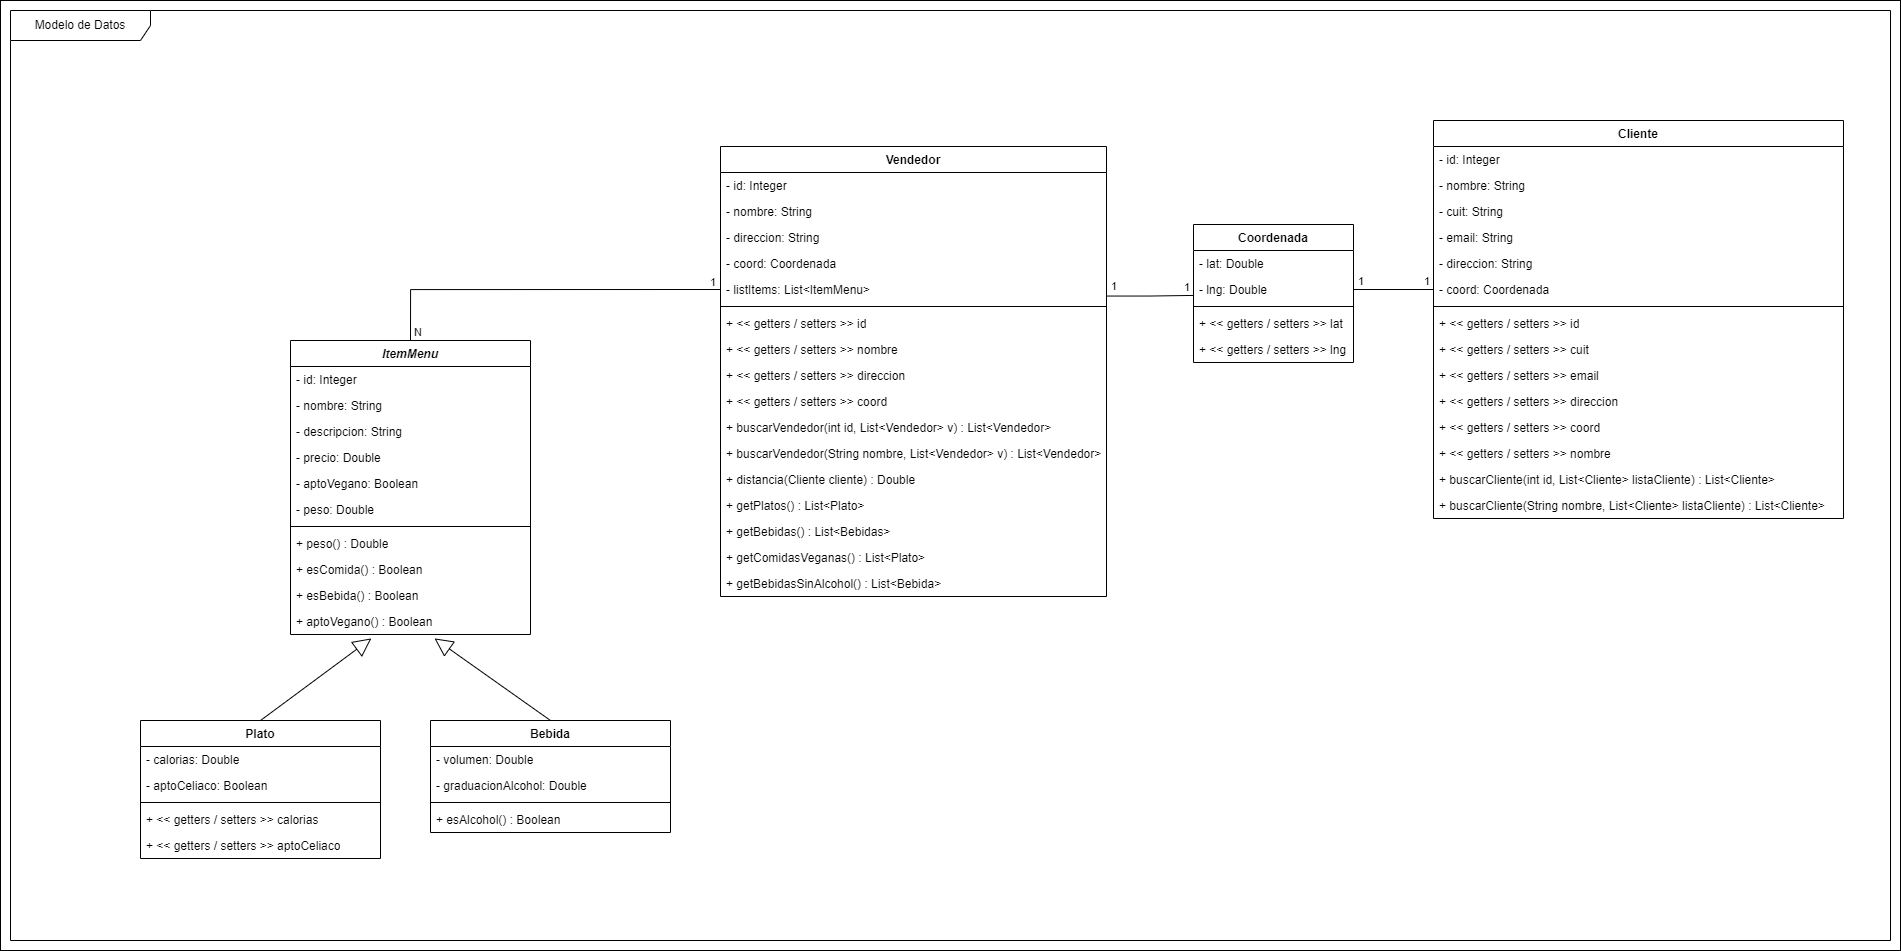
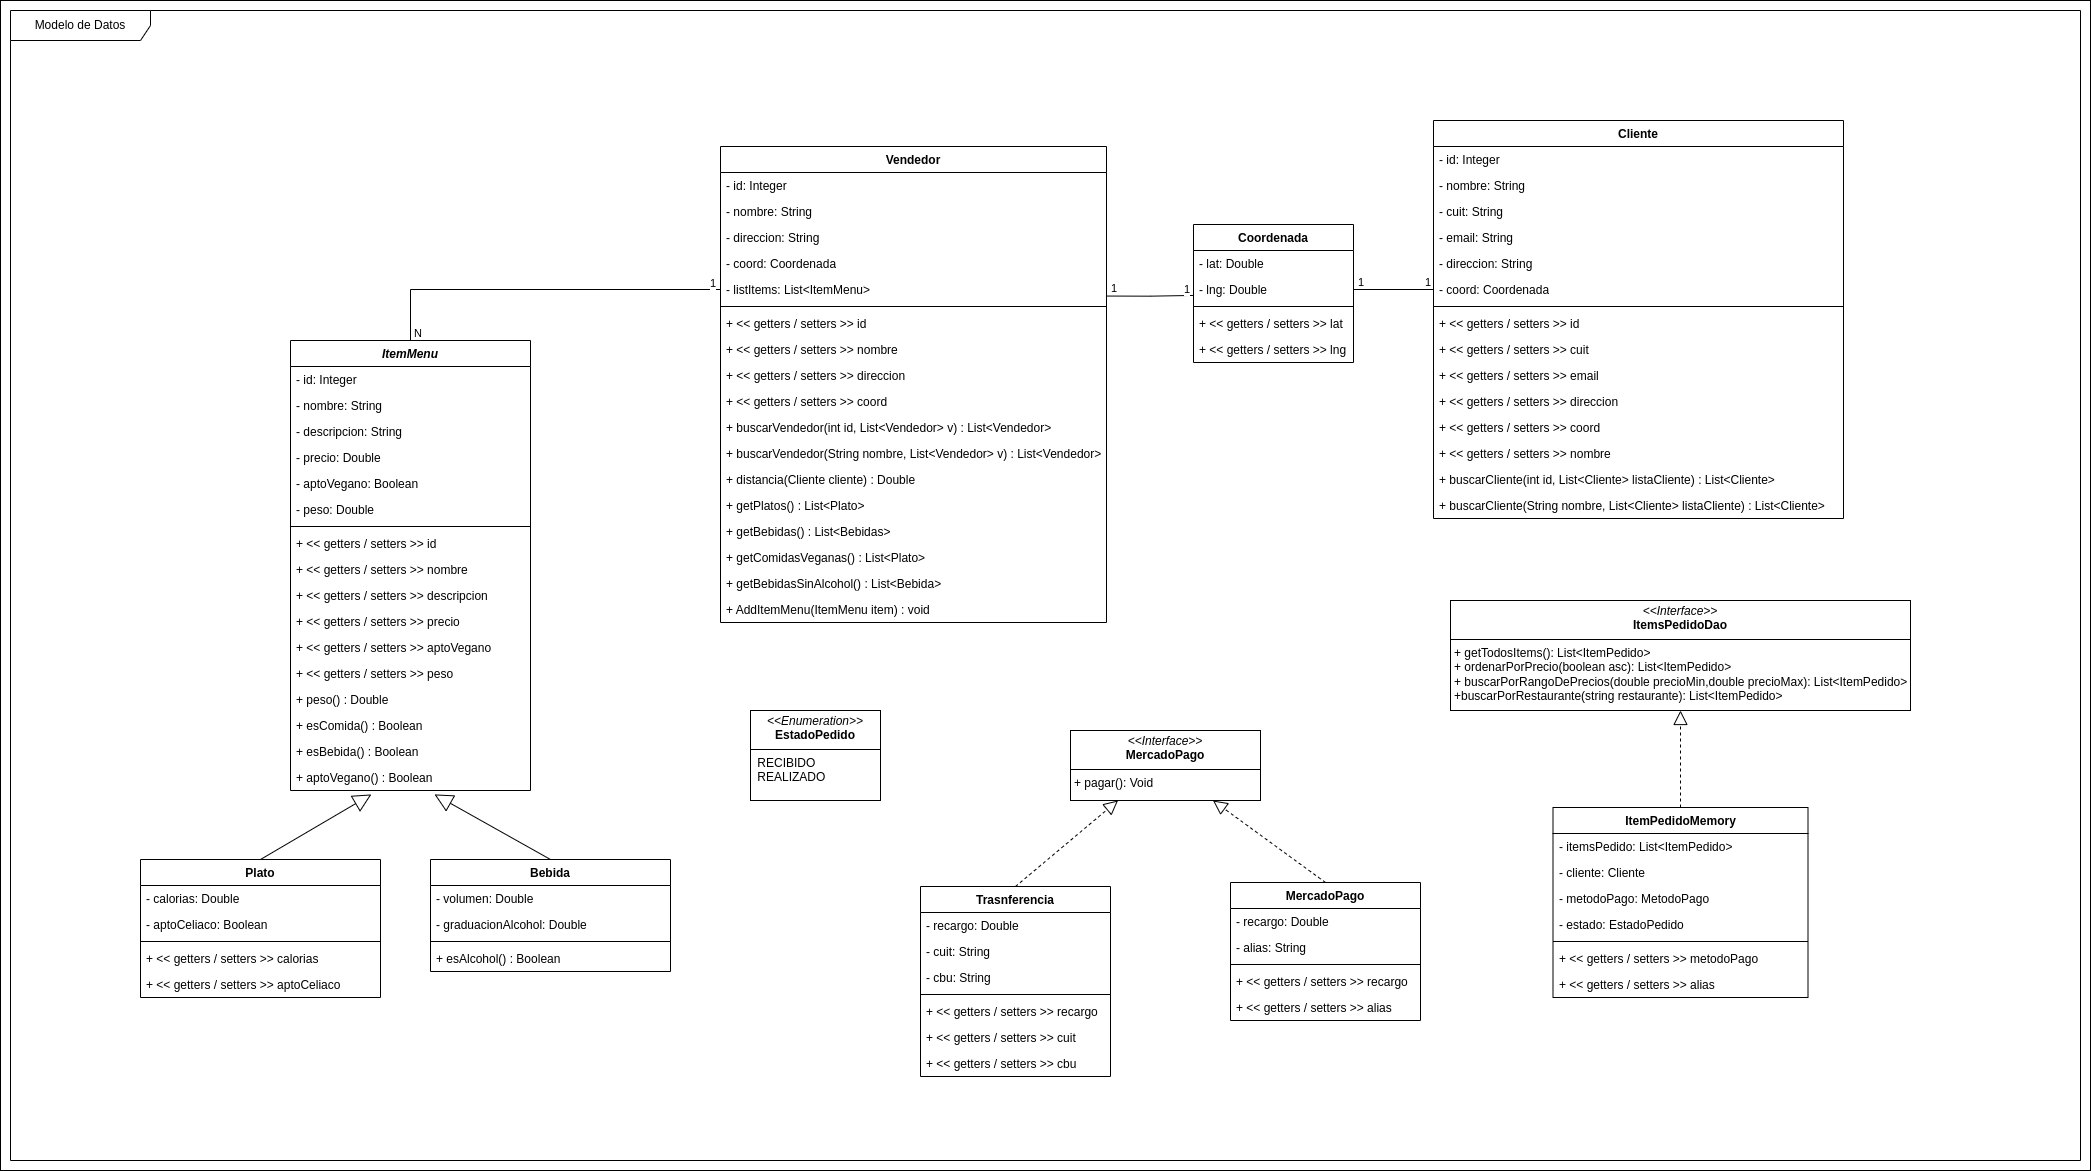
prueba etapa 5
echa en clases

diff --git a/src/main/java/isi/deso/tp/Tp.java b/src/main/java/isi/deso/tp/Tp.java
@@ -3,6 +3,7 @@
  */
 package isi.deso.tp;
 
+
 import isi.deso.tp.menu.Bebida;
 import isi.deso.tp.menu.ItemPedido;
 import isi.deso.tp.menu.Plato;
@@ -23,7 +24,8 @@ public class Tp {
         //etapa1Pruebas();
         //etapa2Pruebas();
         //etapa3Pruebas();
-        etapa4Pruebas();
+        //etapa4Pruebas();
+        etapa5Pruebas();
     }
 
     //metodos de prueba de etapas
@@ -153,5 +155,39 @@ public class Tp {
 
         detallePedido.pagar();
 
+    }
+
+    public static void etapa5Pruebas(){
+      // Crear los 3 vendedores
+        Vendedor v1 = new Vendedor(1, "La Parrillita", "Calle Falsa 123", new Coordenada(-34.603722, -58.381592));
+
+        // Añadir platos y bebidas
+        v1.AddItemMenu(new Plato(500.0, false, 1, "Asado Completo", "Asado con achuras y guarnición", 1200.0, false, 1.2));
+        v1.AddItemMenu(new Plato(300.0, true, 2, "Provoleta", "Queso provolone a la parrilla con orégano", 550.0, true, 0.3));
+        v1.AddItemMenu(new Bebida(500.0, 4.5, 3, "Vino Malbec", "Vino tinto Malbec de reserva", 700.0, false, 0.75));
+
+        //cliente
+        Cliente c1 = new Cliente(0, "20-43427317-0", "benshapozzi@gmail.com", "Sauce 1120", new Coordenada(-53, -23), "Benjamin");
+
+        //generamos pedido
+        List<ItemPedido> pedidos_c1 = new ArrayList();
+
+        pedidos_c1.add(new ItemPedido(v1.getBebidas().get(0), 3, v1));
+        pedidos_c1.add(new ItemPedido(v1.getPlatos().get(0), 1, v1));
+
+        //creamos un metodo de pago
+        MetodoPago mercadoPago = new MercadoPago("la.parri.mp");
+
+        //cargamos los pedidos a memoria
+        ItemPedidoMemory detallePedido_c1 = new ItemPedidoMemory(pedidos_c1, c1);
+        detallePedido_c1.setStrategyPago(mercadoPago);
+
+        //vendedor puede buscar todos los pedidos que le llegaron por estado y puede actualizar el estado
+        
+        //agregamos los pedidos al vendedor
+        v1.addPedido(detallePedido_c1);
+        //el vendedor obtiene el pedido y le setea un estado
+        v1.getListPedidos().get(0).setEstado(EstadoPedido.EN_ENVIO);
+        
     }
 }

diff --git a/src/main/java/isi/deso/tp/usuarios/Vendedor.java b/src/main/java/isi/deso/tp/usuarios/Vendedor.java
@@ -4,6 +4,7 @@
  */
 package isi.deso.tp.usuarios;
 
+import isi.deso.tp.ItemPedidoMemory;
 import isi.deso.tp.menu.Bebida;
 import isi.deso.tp.menu.ItemMenu;
 import isi.deso.tp.menu.Plato;
@@ -21,6 +22,19 @@ public class Vendedor {
     private String direccion;
     private Coordenada coord;
     private List<ItemMenu> listItems = new ArrayList();
+    private List<ItemPedidoMemory> listPedidos = new ArrayList();
+
+    public List<ItemPedidoMemory> getListPedidos() {
+        return listPedidos;
+    }
+
+    public void setListPedidos(List<ItemPedidoMemory> listPedidos) {
+        this.listPedidos = listPedidos;
+    }
+
+    public void addPedido(ItemPedidoMemory pedido) {
+        this.listPedidos.add(pedido);
+    }
 
     public int getId() {
         return id;

diff --git a/src/main/java/isi/deso/tp/PedidoObserver.java b/src/main/java/isi/deso/tp/PedidoObserver.java
@@ -1,0 +1,30 @@
+/*
+ * Click nbfs://nbhost/SystemFileSystem/Templates/Licenses/license-default.txt to change this license
+ * Click nbfs://nbhost/SystemFileSystem/Templates/Classes/Class.java to edit this template
+ */
+package isi.deso.tp;
+
+import isi.deso.tp.usuarios.Cliente;
+import java.util.ArrayList;
+import java.util.List;
+
+/**
+ *
+ * @author st
+ */
+public class PedidoObserver {
+
+    private List<Cliente> clientesSuscriptos = new ArrayList();
+
+    public void addCliente(Cliente c) {
+        clientesSuscriptos.add(c);
+    }
+
+    public void removeCiente(Cliente c) {
+        clientesSuscriptos.remove(c);
+    }
+
+    public void notificarClientes() {
+        clientesSuscriptos.stream().forEach(c -> c.update());
+    }
+}

diff --git a/src/main/java/isi/deso/tp/usuarios/Cliente.java b/src/main/java/isi/deso/tp/usuarios/Cliente.java
@@ -4,6 +4,7 @@
  */
 package isi.deso.tp.usuarios;
 
+import isi.deso.tp.SuscriptorPedido;
 import java.util.ArrayList;
 import java.util.List;
 
@@ -11,7 +12,7 @@ import java.util.List;
  *
  * @author Deck
  */
-public class Cliente {
+public class Cliente implements SuscriptorPedido{
     private int id;
     private String cuit;
     private String email;
@@ -112,6 +113,11 @@ public class Cliente {
        }
        return clientes;
    }
+
+    @Override
+    public void update() {
+        //aca va la logica que se ejecuta cuando el vendedor cambia el estado del pedido al que el cliente se suscribió
+    }
     
     
 }

diff --git a/src/main/java/isi/deso/tp/ItemPedidoMemory.java b/src/main/java/isi/deso/tp/ItemPedidoMemory.java
@@ -24,6 +24,16 @@ public class ItemPedidoMemory implements ItemsPedidoDao {
     private MetodoPago metodoPago;
     private EstadoPedido estado;
 
+    public EstadoPedido getEstado() {
+        return estado;
+    }
+
+    public void setEstado(EstadoPedido estado) {
+        this.estado = estado;
+    }
+
+    
+    
     public ItemPedidoMemory() {
     }
 

diff --git a/src/main/java/isi/deso/tp/SuscriptorPedido.java b/src/main/java/isi/deso/tp/SuscriptorPedido.java
@@ -1,0 +1,13 @@
+/*
+ * Click nbfs://nbhost/SystemFileSystem/Templates/Licenses/license-default.txt to change this license
+ * Click nbfs://nbhost/SystemFileSystem/Templates/Classes/Interface.java to edit this template
+ */
+package isi.deso.tp;
+
+/**
+ *
+ * @author st
+ */
+public interface SuscriptorPedido {
+    public void update();
+}

diff --git a/src/main/java/isi/deso/tp/EstadoPedido.java b/src/main/java/isi/deso/tp/EstadoPedido.java
@@ -10,5 +10,5 @@ package isi.deso.tp;
  */
 public enum EstadoPedido {
     RECIBIDO,
-    REALIZADO
+    EN_ENVIO
 }
